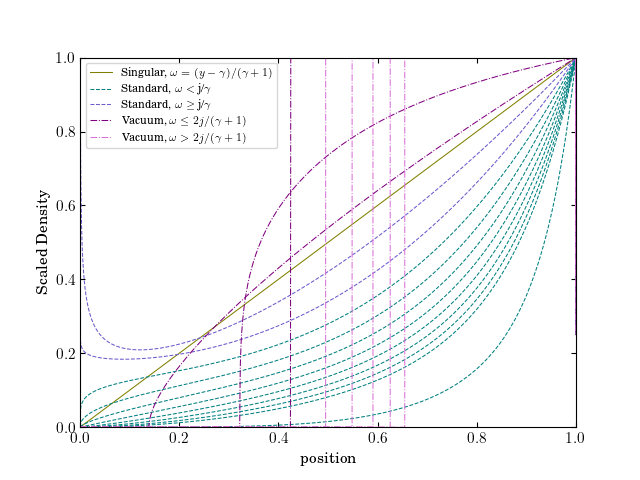
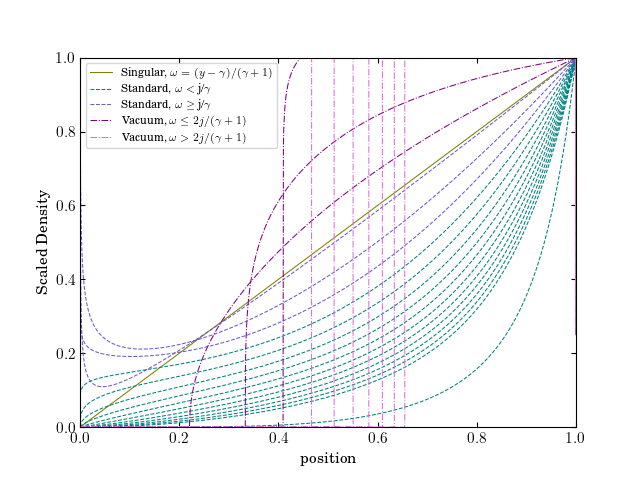
chore: update plot

Changed region(s): [[0.125, 0.125, 0.9062, 0.9062], [0.6875, 0.1562, 0.7812, 0.1875]]

diff --git a/src/plot_sedov.py b/src/plot_sedov.py
@@ -9,7 +9,7 @@ def plot_density():
   """
   hacky plot density stuff.
   """
-  w = np.linspace(1.0, 2.75, 18)
+  w = np.linspace(1.0, 2.75, 24)
   w = np.insert(w, 0, 0.0)
   w = np.insert(w, 0, 2.0)
 
